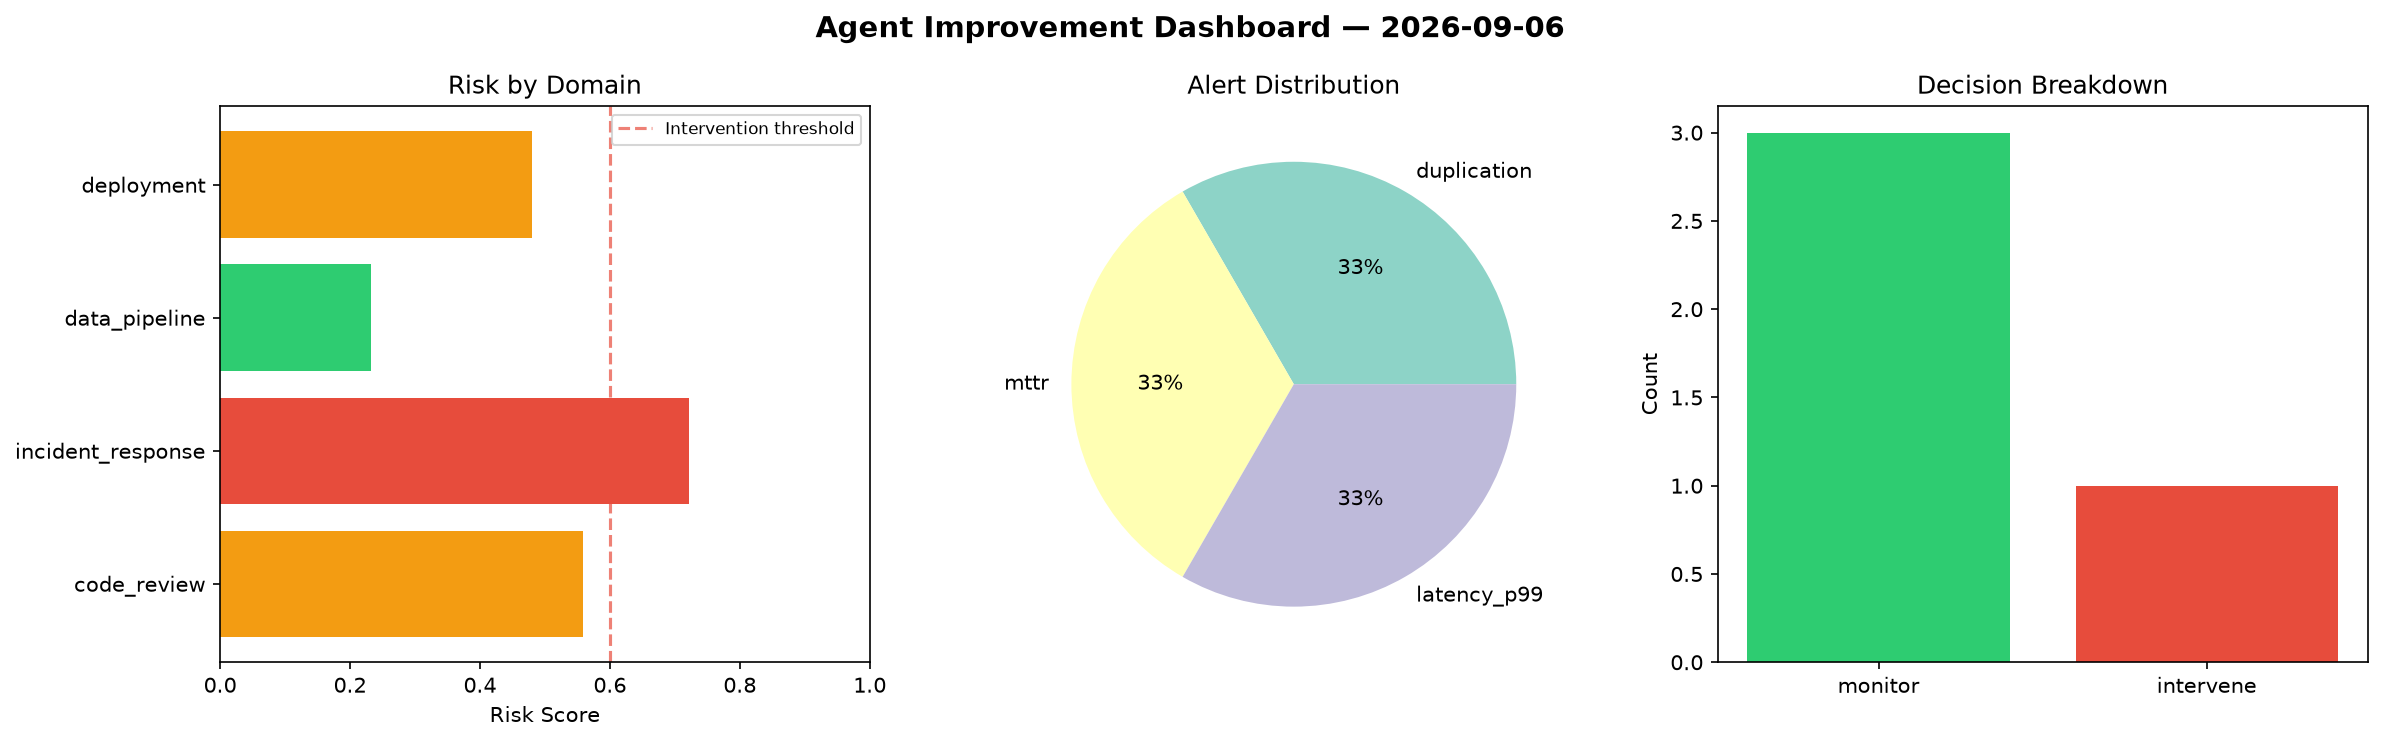
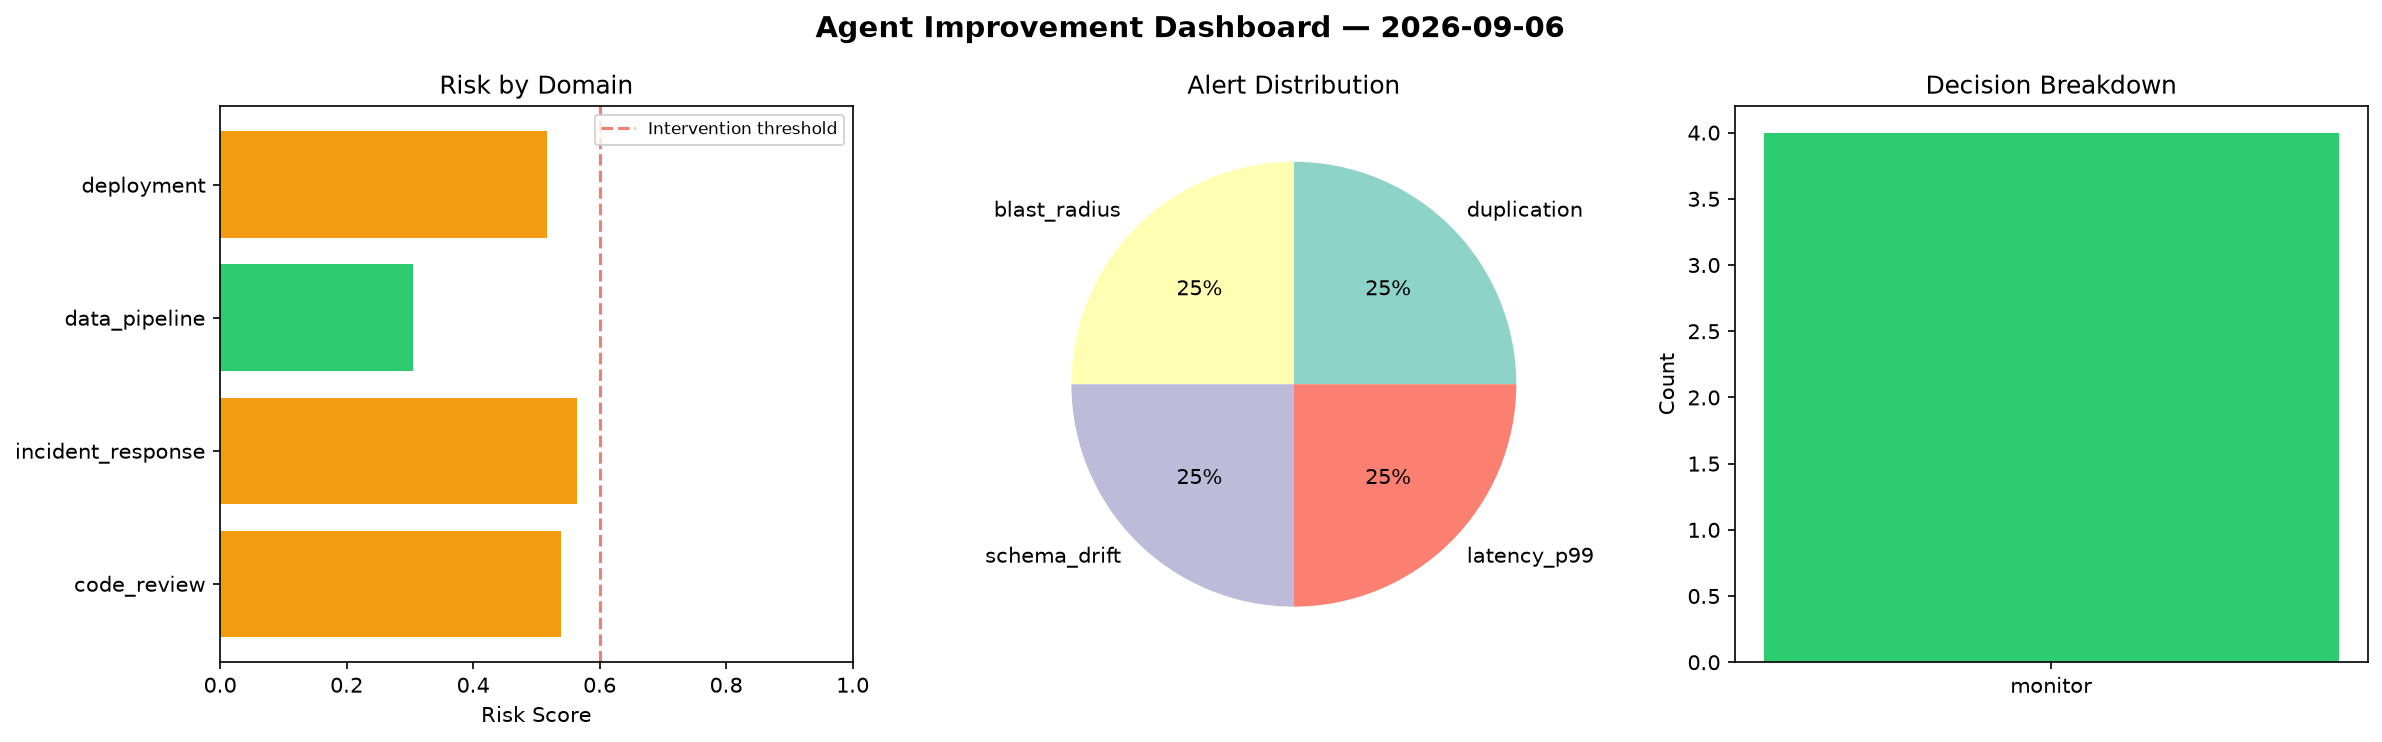
agent-improvement: daily cycle 2026-09-06T17:04

diff --git a/logs/2026-09-06.md b/logs/2026-09-06.md
@@ -1,6 +1,6 @@
 # Agent Improvement Report — 2026-09-06
 
-**Cycle ID:** `8b36adca` | **Avg Risk:** 0.4984 | **Interventions:** 1/4
+**Cycle ID:** `ac1e60f0` | **Avg Risk:** 0.481 | **Interventions:** 0/4
 
 ![Dashboard](2026-09-06_dashboard.png)
 
@@ -10,18 +10,18 @@
 
 | Domain | Risk Score | Decision | Alerts |
 |--------|-----------|----------|--------|
-| code_review | 0.5586 | monitor | duplication |
-| incident_response | 0.7218 | intervene | mttr |
-| data_pipeline | 0.2329 | monitor | none |
-| deployment | 0.4802 | monitor | latency_p99 |
+| code_review | 0.5396 | monitor | duplication |
+| incident_response | 0.5638 | monitor | blast_radius |
+| data_pipeline | 0.3042 | monitor | schema_drift |
+| deployment | 0.5166 | monitor | latency_p99 |
 
 ## Delta vs Yesterday
 
 | Domain | Today | Yesterday | Change |
 |--------|-------|-----------|--------|
-| code_review | 0.5586 | 0.4507 | 📈 23.9% |
-| incident_response | 0.7218 | 0.8134 | 📉 -11.3% |
-| data_pipeline | 0.2329 | 0.3143 | 📉 -25.9% |
-| deployment | 0.4802 | 0.6954 | 📉 -30.9% |
+| code_review | 0.5396 | 0.4507 | 📈 19.7% |
+| incident_response | 0.5638 | 0.8134 | 📉 -30.7% |
+| data_pipeline | 0.3042 | 0.3143 | 📉 -3.2% |
+| deployment | 0.5166 | 0.6954 | 📉 -25.7% |
 
 **Refinement:** `{'adjustment': 'maintain', 'trend': 'improving', 'window': 4}`
